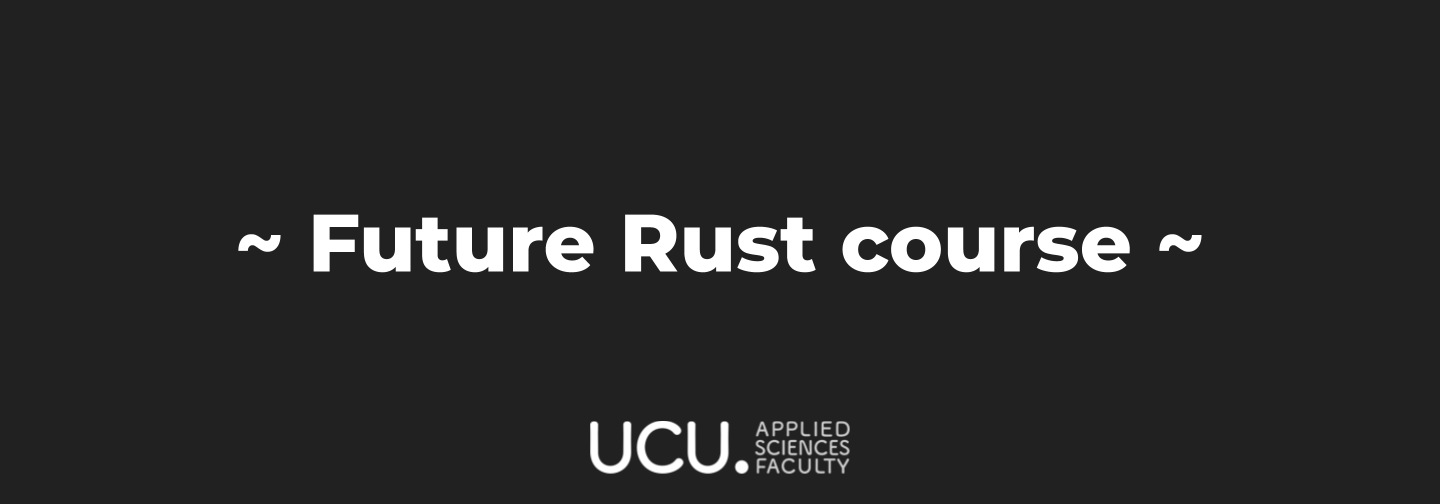
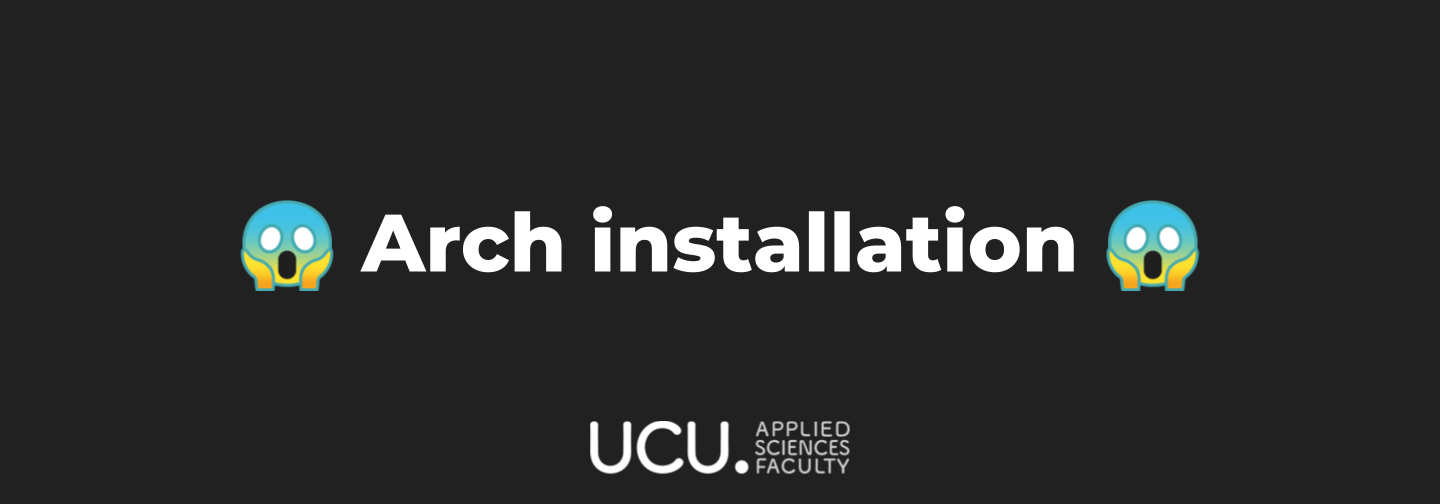
Add arch installation info, fix up CONTRIBUTING.md

Changed region(s): [[0.1562, 0.3869, 0.8438, 0.5952]]

diff --git a/CONTRIBUTING.md b/CONTRIBUTING.md
@@ -1,10 +1,10 @@
 # For mentors
-Please, don\`t make commits directly to the repo, especially if you are implementing some feature that needs to be tested and checked, as manual or some interesting code. Instead of that, make a branch with a name of such a feature, test everything and only then merge branches
-# For outer developers
-If you want to make your contribution in such useful project, you can make it in a few ways
+Please, don\`t commit directly to the repo, especially if you are implementing some feature that needs to be tested and checked, such as a manual or some interesting code. Instead of that, make a branch with a feature name, test everything and only then merge branches
+# For external developers
+If you want to make a contribution in such a useful project, you can make it in a few ways:
 - open an **Issue** and describe, what do you think about materials, schedule etc, what we can do better (in your opinion), just give a feedback.
-- fork, make changes and create PR, as to all projects :smile:.
-## What help we need?
+- fork, make changes and create a PR
+## What help do we need?
 - suggestions for next semester & future in general
 - better presentations format
 - translation of all materials to English

diff --git a/README.md b/README.md
@@ -64,16 +64,17 @@ If you are going to visit the club regularly, the best is to install Arch/Manjar
 ## Week 9
 [![](images/week9.png)]()
 
-## Week 10
-### Arch Linux installation required here.
-[![](images/week10.png)]()
-
-## Week 11
-
-## Week 12
+## Week 10-12
+![](images/week10.png)
+[![](images/week11.png)]()
 
 # Usage for students
-### in progress
+```
+# Fork this repository
+# Watch the lecture
+# Change/add homework files for the respective topic in weeks/ directory
+# Send the link to us for grading :)
+```
 
 # Usage for contributors
 ```
